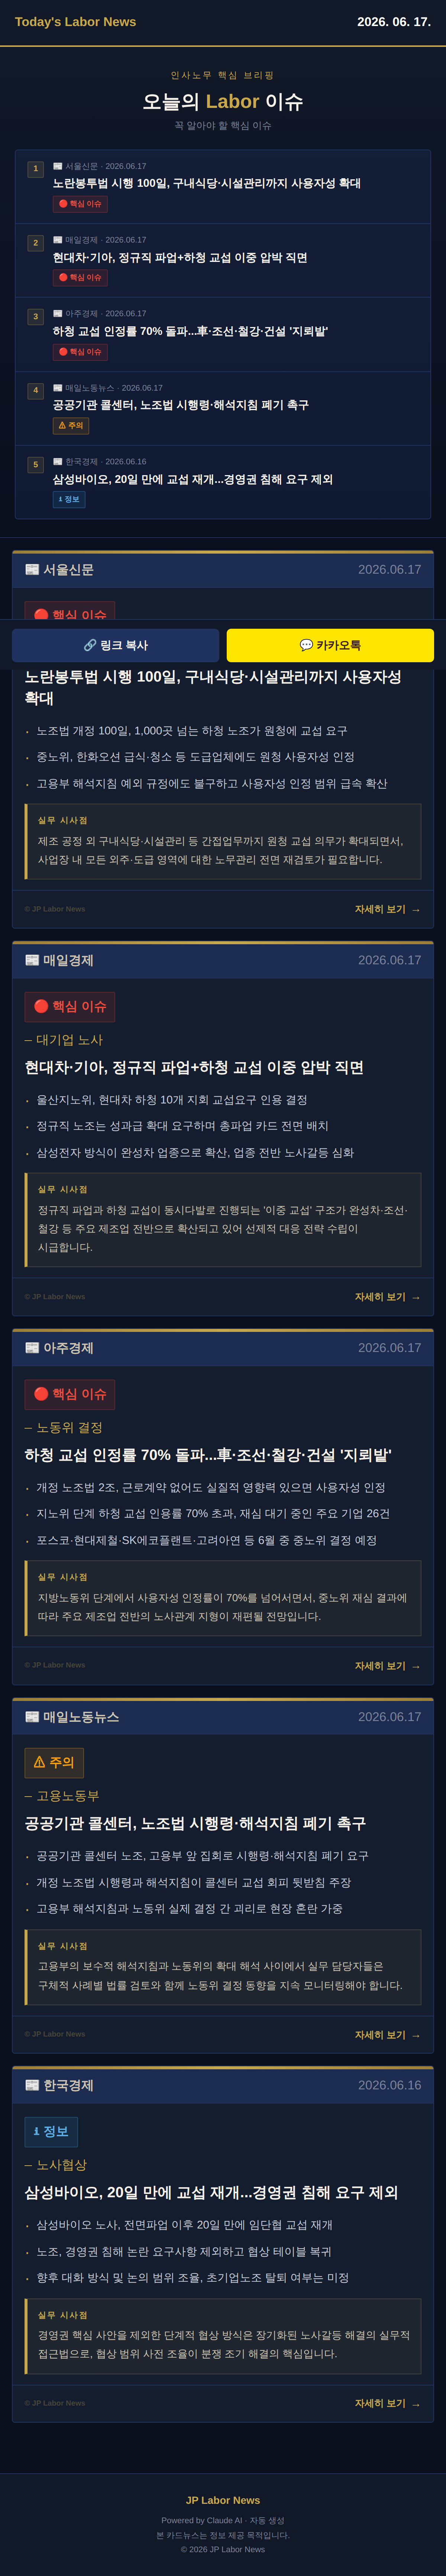
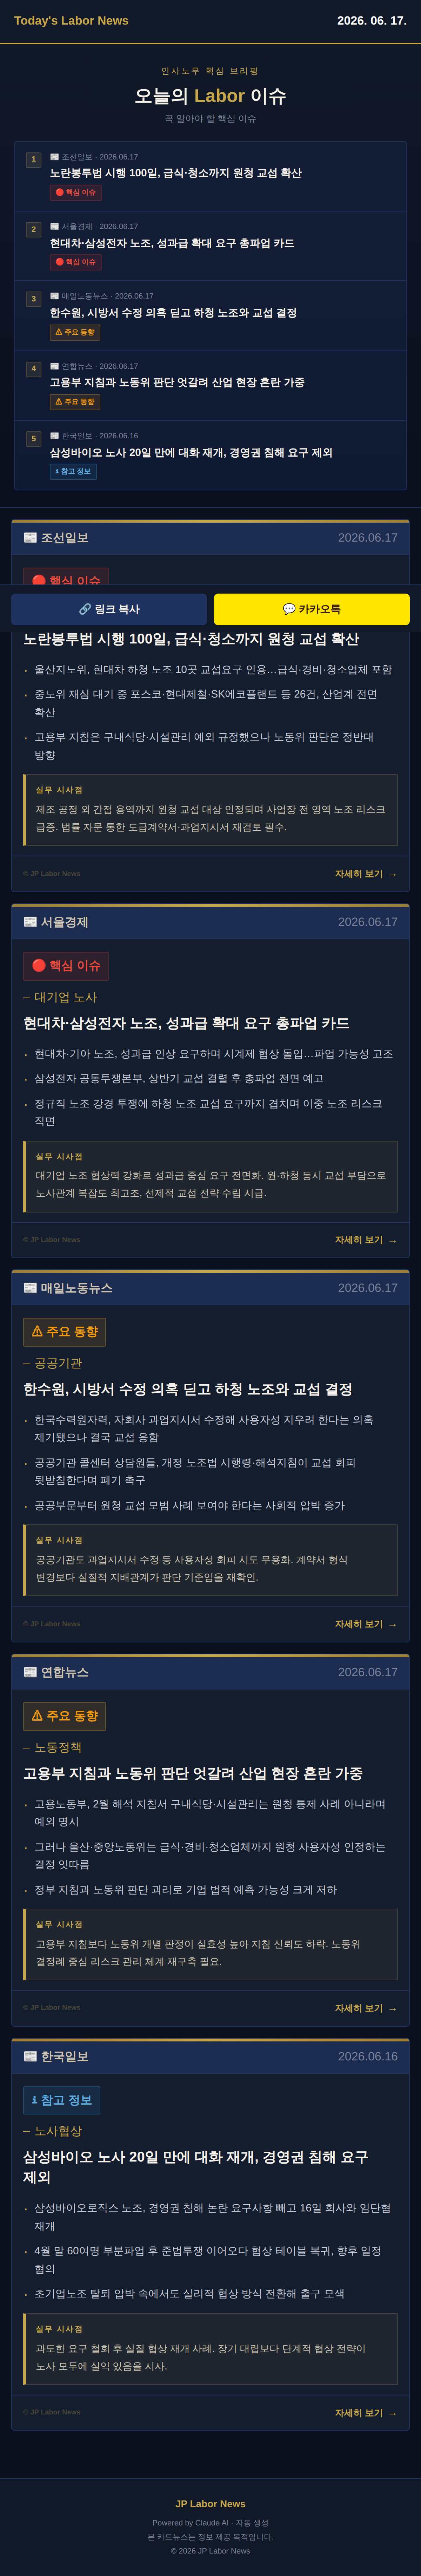
Auto: 20260617 카드뉴스 업데이트

Changed region(s): [[0.0308, 0.0, 0.9867, 0.9359], [0.4008, 0.9671, 0.6167, 0.9983], [0.8017, 0.0, 0.8633, 0.0312]]

diff --git a/cardnews/20260617/index.html b/cardnews/20260617/index.html
@@ -93,88 +93,88 @@ body{background:var(--navy);color:var(--text-body);font-family:'Apple SD Gothic 
   <div class="headline-list"><a class="headline-item" href="#news1">
   <div class="headline-num">1</div>
   <div class="headline-content">
-    <div class="headline-source">📰 서울신문 · 2026.06.17</div>
-    <div class="headline-title">노란봉투법 시행 100일, 구내식당·시설관리까지 사용자성 확대</div>
+    <div class="headline-source">📰 조선일보 · 2026.06.17</div>
+    <div class="headline-title">노란봉투법 시행 100일, 급식·청소까지 원청 교섭 확산</div>
     <span class="headline-tag tag-high">🔴 핵심 이슈</span>
   </div>
 </a><a class="headline-item" href="#news2">
   <div class="headline-num">2</div>
   <div class="headline-content">
-    <div class="headline-source">📰 매일경제 · 2026.06.17</div>
-    <div class="headline-title">현대차·기아, 정규직 파업+하청 교섭 이중 압박 직면</div>
+    <div class="headline-source">📰 서울경제 · 2026.06.17</div>
+    <div class="headline-title">현대차·삼성전자 노조, 성과급 확대 요구 총파업 카드</div>
     <span class="headline-tag tag-high">🔴 핵심 이슈</span>
   </div>
 </a><a class="headline-item" href="#news3">
   <div class="headline-num">3</div>
   <div class="headline-content">
-    <div class="headline-source">📰 아주경제 · 2026.06.17</div>
-    <div class="headline-title">하청 교섭 인정률 70% 돌파...車·조선·철강·건설 '지뢰밭'</div>
-    <span class="headline-tag tag-high">🔴 핵심 이슈</span>
+    <div class="headline-source">📰 매일노동뉴스 · 2026.06.17</div>
+    <div class="headline-title">한수원, 시방서 수정 의혹 딛고 하청 노조와 교섭 결정</div>
+    <span class="headline-tag tag-med">⚠ 주요 동향</span>
   </div>
 </a><a class="headline-item" href="#news4">
   <div class="headline-num">4</div>
   <div class="headline-content">
-    <div class="headline-source">📰 매일노동뉴스 · 2026.06.17</div>
-    <div class="headline-title">공공기관 콜센터, 노조법 시행령·해석지침 폐기 촉구</div>
-    <span class="headline-tag tag-med">⚠ 주의</span>
+    <div class="headline-source">📰 연합뉴스 · 2026.06.17</div>
+    <div class="headline-title">고용부 지침과 노동위 판단 엇갈려 산업 현장 혼란 가중</div>
+    <span class="headline-tag tag-med">⚠ 주요 동향</span>
   </div>
 </a><a class="headline-item" href="#news5">
   <div class="headline-num">5</div>
   <div class="headline-content">
-    <div class="headline-source">📰 한국경제 · 2026.06.16</div>
-    <div class="headline-title">삼성바이오, 20일 만에 교섭 재개...경영권 침해 요구 제외</div>
-    <span class="headline-tag tag-info">ℹ 정보</span>
+    <div class="headline-source">📰 한국일보 · 2026.06.16</div>
+    <div class="headline-title">삼성바이오 노사 20일 만에 대화 재개, 경영권 침해 요구 제외</div>
+    <span class="headline-tag tag-info">ℹ 참고 정보</span>
   </div>
 </a></div>
 </section>
 <div class="news-card" id="news1">
-  <div class="source-bar"><span class="source-name">📰 서울신문</span><span class="source-date">2026.06.17</span></div>
+  <div class="source-bar"><span class="source-name">📰 조선일보</span><span class="source-date">2026.06.17</span></div>
   <div class="card-inner">
     <div class="risk-tag risk-high">🔴 핵심 이슈</div>
     <div class="card-category">노란봉투법</div>
-    <h2 class="card-title">노란봉투법 시행 100일, 구내식당·시설관리까지 사용자성 확대</h2>
-    <ul class="bullet-list"><li>노조법 개정 100일, 1,000곳 넘는 하청 노조가 원청에 교섭 요구</li><li>중노위, 한화오션 급식·청소 등 도급업체에도 원청 사용자성 인정</li><li>고용부 해석지침 예외 규정에도 불구하고 사용자성 인정 범위 급속 확산</li></ul>
-    <div class="insight"><div class="insight-label">실무 시사점</div><div class="insight-text">제조 공정 외 구내식당·시설관리 등 간접업무까지 원청 교섭 의무가 확대되면서, 사업장 내 모든 외주·도급 영역에 대한 노무관리 전면 재검토가 필요합니다.</div></div>
+    <h2 class="card-title">노란봉투법 시행 100일, 급식·청소까지 원청 교섭 확산</h2>
+    <ul class="bullet-list"><li>울산지노위, 현대차 하청 노조 10곳 교섭요구 인용…급식·경비·청소업체 포함</li><li>중노위 재심 대기 중 포스코·현대제철·SK에코플랜트 등 26건, 산업계 전면 확산</li><li>고용부 지침은 구내식당·시설관리 예외 규정했으나 노동위 판단은 정반대 방향</li></ul>
+    <div class="insight"><div class="insight-label">실무 시사점</div><div class="insight-text">제조 공정 외 간접 용역까지 원청 교섭 대상 인정되며 사업장 전 영역 노조 리스크 급증. 법률 자문 통한 도급계약서·과업지시서 재검토 필수.</div></div>
   </div>
-  <div class="read-more"><span class="wm-small">© JP Labor News</span><a href="https://www.seoul.co.kr/news/editOpinion/editorial/2026/06/17/20260617027004?wlog_tag3=naver" target="_blank">자세히 보기</a></div>
+  <div class="read-more"><span class="wm-small">© JP Labor News</span><a href="https://www.chosun.com/opinion/editorial/2026/06/17/53JCQJ4HAVE2ZHFKUQQ5LYEVXU/?utm_source=naver&utm_medium=referral&utm_campaign=naver-news" target="_blank">자세히 보기</a></div>
 </div><div class="news-card" id="news2">
-  <div class="source-bar"><span class="source-name">📰 매일경제</span><span class="source-date">2026.06.17</span></div>
+  <div class="source-bar"><span class="source-name">📰 서울경제</span><span class="source-date">2026.06.17</span></div>
   <div class="card-inner">
     <div class="risk-tag risk-high">🔴 핵심 이슈</div>
     <div class="card-category">대기업 노사</div>
-    <h2 class="card-title">현대차·기아, 정규직 파업+하청 교섭 이중 압박 직면</h2>
-    <ul class="bullet-list"><li>울산지노위, 현대차 하청 10개 지회 교섭요구 인용 결정</li><li>정규직 노조는 성과급 확대 요구하며 총파업 카드 전면 배치</li><li>삼성전자 방식이 완성차 업종으로 확산, 업종 전반 노사갈등 심화</li></ul>
-    <div class="insight"><div class="insight-label">실무 시사점</div><div class="insight-text">정규직 파업과 하청 교섭이 동시다발로 진행되는 '이중 교섭' 구조가 완성차·조선·철강 등 주요 제조업 전반으로 확산되고 있어 선제적 대응 전략 수립이 시급합니다.</div></div>
+    <h2 class="card-title">현대차·삼성전자 노조, 성과급 확대 요구 총파업 카드</h2>
+    <ul class="bullet-list"><li>현대차·기아 노조, 성과급 인상 요구하며 시계제 협상 돌입…파업 가능성 고조</li><li>삼성전자 공동투쟁본부, 상반기 교섭 결렬 후 총파업 전면 예고</li><li>정규직 노조 강경 투쟁에 하청 노조 교섭 요구까지 겹치며 이중 노조 리스크 직면</li></ul>
+    <div class="insight"><div class="insight-label">실무 시사점</div><div class="insight-text">대기업 노조 협상력 강화로 성과급 중심 요구 전면화. 원·하청 동시 교섭 부담으로 노사관계 복잡도 최고조, 선제적 교섭 전략 수립 시급.</div></div>
   </div>
-  <div class="read-more"><span class="wm-small">© JP Labor News</span><a href="https://www.mt.co.kr/industry/2026/06/17/2026061620035478459" target="_blank">자세히 보기</a></div>
+  <div class="read-more"><span class="wm-small">© JP Labor News</span><a href="https://www.seoul.co.kr/news/economy/industry/2026/06/17/20260617010002?wlog_tag3=naver" target="_blank">자세히 보기</a></div>
 </div><div class="news-card" id="news3">
-  <div class="source-bar"><span class="source-name">📰 아주경제</span><span class="source-date">2026.06.17</span></div>
-  <div class="card-inner">
-    <div class="risk-tag risk-high">🔴 핵심 이슈</div>
-    <div class="card-category">노동위 결정</div>
-    <h2 class="card-title">하청 교섭 인정률 70% 돌파...車·조선·철강·건설 '지뢰밭'</h2>
-    <ul class="bullet-list"><li>개정 노조법 2조, 근로계약 없어도 실질적 영향력 있으면 사용자성 인정</li><li>지노위 단계 하청 교섭 인용률 70% 초과, 재심 대기 중인 주요 기업 26건</li><li>포스코·현대제철·SK에코플랜트·고려아연 등 6월 중 중노위 결정 예정</li></ul>
-    <div class="insight"><div class="insight-label">실무 시사점</div><div class="insight-text">지방노동위 단계에서 사용자성 인정률이 70%를 넘어서면서, 중노위 재심 결과에 따라 주요 제조업 전반의 노사관계 지형이 재편될 전망입니다.</div></div>
-  </div>
-  <div class="read-more"><span class="wm-small">© JP Labor News</span><a href="https://www.ajunews.com/view/20260616145034583" target="_blank">자세히 보기</a></div>
-</div><div class="news-card" id="news4">
   <div class="source-bar"><span class="source-name">📰 매일노동뉴스</span><span class="source-date">2026.06.17</span></div>
   <div class="card-inner">
-    <div class="risk-tag risk-med">⚠ 주의</div>
-    <div class="card-category">고용노동부</div>
-    <h2 class="card-title">공공기관 콜센터, 노조법 시행령·해석지침 폐기 촉구</h2>
-    <ul class="bullet-list"><li>공공기관 콜센터 노조, 고용부 앞 집회로 시행령·해석지침 폐기 요구</li><li>개정 노조법 시행령과 해석지침이 콜센터 교섭 회피 뒷받침 주장</li><li>고용부 해석지침과 노동위 실제 결정 간 괴리로 현장 혼란 가중</li></ul>
-    <div class="insight"><div class="insight-label">실무 시사점</div><div class="insight-text">고용부의 보수적 해석지침과 노동위의 확대 해석 사이에서 실무 담당자들은 구체적 사례별 법률 검토와 함께 노동위 결정 동향을 지속 모니터링해야 합니다.</div></div>
+    <div class="risk-tag risk-med">⚠ 주요 동향</div>
+    <div class="card-category">공공기관</div>
+    <h2 class="card-title">한수원, 시방서 수정 의혹 딛고 하청 노조와 교섭 결정</h2>
+    <ul class="bullet-list"><li>한국수력원자력, 자회사 과업지시서 수정해 사용자성 지우려 한다는 의혹 제기됐으나 결국 교섭 응함</li><li>공공기관 콜센터 상담원들, 개정 노조법 시행령·해석지침이 교섭 회피 뒷받침한다며 폐기 촉구</li><li>공공부문부터 원청 교섭 모범 사례 보여야 한다는 사회적 압박 증가</li></ul>
+    <div class="insight"><div class="insight-label">실무 시사점</div><div class="insight-text">공공기관도 과업지시서 수정 등 사용자성 회피 시도 무용화. 계약서 형식 변경보다 실질적 지배관계가 판단 기준임을 재확인.</div></div>
   </div>
-  <div class="read-more"><span class="wm-small">© JP Labor News</span><a href="https://www.labortoday.co.kr/news/articleView.html?idxno=235127" target="_blank">자세히 보기</a></div>
-</div><div class="news-card" id="news5">
-  <div class="source-bar"><span class="source-name">📰 한국경제</span><span class="source-date">2026.06.16</span></div>
+  <div class="read-more"><span class="wm-small">© JP Labor News</span><a href="https://www.labortoday.co.kr/news/articleView.html?idxno=235125" target="_blank">자세히 보기</a></div>
+</div><div class="news-card" id="news4">
+  <div class="source-bar"><span class="source-name">📰 연합뉴스</span><span class="source-date">2026.06.17</span></div>
   <div class="card-inner">
-    <div class="risk-tag risk-info">ℹ 정보</div>
+    <div class="risk-tag risk-med">⚠ 주요 동향</div>
+    <div class="card-category">노동정책</div>
+    <h2 class="card-title">고용부 지침과 노동위 판단 엇갈려 산업 현장 혼란 가중</h2>
+    <ul class="bullet-list"><li>고용노동부, 2월 해석 지침서 구내식당·시설관리는 원청 통제 사례 아니라며 예외 명시</li><li>그러나 울산·중앙노동위는 급식·경비·청소업체까지 원청 사용자성 인정하는 결정 잇따름</li><li>정부 지침과 노동위 판단 괴리로 기업 법적 예측 가능성 크게 저하</li></ul>
+    <div class="insight"><div class="insight-label">실무 시사점</div><div class="insight-text">고용부 지침보다 노동위 개별 판정이 실효성 높아 지침 신뢰도 하락. 노동위 결정례 중심 리스크 관리 체계 재구축 필요.</div></div>
+  </div>
+  <div class="read-more"><span class="wm-small">© JP Labor News</span><a href="https://www.yna.co.kr/view/AKR20260617014900011?input=1195m" target="_blank">자세히 보기</a></div>
+</div><div class="news-card" id="news5">
+  <div class="source-bar"><span class="source-name">📰 한국일보</span><span class="source-date">2026.06.16</span></div>
+  <div class="card-inner">
+    <div class="risk-tag risk-info">ℹ 참고 정보</div>
     <div class="card-category">노사협상</div>
-    <h2 class="card-title">삼성바이오, 20일 만에 교섭 재개...경영권 침해 요구 제외</h2>
-    <ul class="bullet-list"><li>삼성바이오 노사, 전면파업 이후 20일 만에 임단협 교섭 재개</li><li>노조, 경영권 침해 논란 요구사항 제외하고 협상 테이블 복귀</li><li>향후 대화 방식 및 논의 범위 조율, 초기업노조 탈퇴 여부는 미정</li></ul>
-    <div class="insight"><div class="insight-label">실무 시사점</div><div class="insight-text">경영권 핵심 사안을 제외한 단계적 협상 방식은 장기화된 노사갈등 해결의 실무적 접근법으로, 협상 범위 사전 조율이 분쟁 조기 해결의 핵심입니다.</div></div>
+    <h2 class="card-title">삼성바이오 노사 20일 만에 대화 재개, 경영권 침해 요구 제외</h2>
+    <ul class="bullet-list"><li>삼성바이오로직스 노조, 경영권 침해 논란 요구사항 빼고 16일 회사와 임단협 재개</li><li>4월 말 60여명 부분파업 후 준법투쟁 이어오다 협상 테이블 복귀, 향후 일정 협의</li><li>초기업노조 탈퇴 압박 속에서도 실리적 협상 방식 전환해 출구 모색</li></ul>
+    <div class="insight"><div class="insight-label">실무 시사점</div><div class="insight-text">과도한 요구 철회 후 실질 협상 재개 사례. 장기 대립보다 단계적 협상 전략이 노사 모두에 실익 있음을 시사.</div></div>
   </div>
   <div class="read-more"><span class="wm-small">© JP Labor News</span><a href="https://www.hankookilbo.com/news/article/A2026061618060003367?did=NA" target="_blank">자세히 보기</a></div>
 </div>